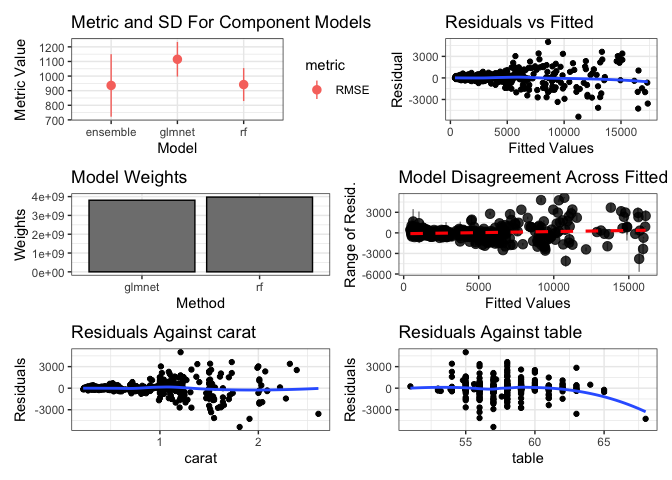
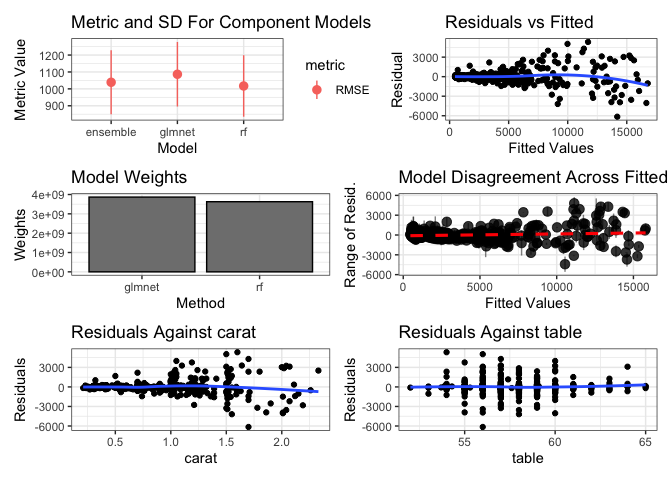
rebuild

diff --git a/README.md b/README.md
@@ -56,21 +56,21 @@ print(greedy_stack)
 #> 
 #> No pre-processing
 #> Resampling: Cross-Validated (5 fold) 
-#> Summary of sample sizes: 399, 401, 400, 400, 400 
+#> Summary of sample sizes: 400, 400, 400, 400, 400 
 #> Resampling results:
 #> 
 #>   RMSE      Rsquared   MAE     
-#>   925.6101  0.9454321  513.4172
+#>   926.6459  0.9467796  558.8281
 #> 
 #> Tuning parameter 'max_iter' was held constant at a value of 100
 #> 
 #> Final model:
 #> Greedy MSE
-#> RMSE:  927.4321 
+#> RMSE:  944.4731 
 #> Weights:
 #>        [,1]
-#> rf     0.76
-#> glmnet 0.24
+#> rf     0.58
+#> glmnet 0.42
 ggplot2::autoplot(greedy_stack, training_data = dat, xvars = c("carat", "table"))
 ```
 
@@ -89,11 +89,11 @@ print(rf_stack)
 #> 
 #> No pre-processing
 #> Resampling: Cross-Validated (5 fold) 
-#> Summary of sample sizes: 399, 400, 401, 400, 400 
+#> Summary of sample sizes: 400, 400, 400, 400, 400 
 #> Resampling results:
 #> 
 #>   RMSE      Rsquared   MAE     
-#>   935.9032  0.9469527  525.7192
+#>   1039.019  0.9269161  558.9834
 #> 
 #> Tuning parameter 'mtry' was held constant at a value of 2
 #> 
@@ -105,8 +105,8 @@ print(rf_stack)
 #>                      Number of trees: 500
 #> No. of variables tried at each split: 2
 #> 
-#>           Mean of squared residuals: 919446.8
-#>                     % Var explained: 94.1
+#>           Mean of squared residuals: 1031204
+#>                     % Var explained: 93.15
 ggplot2::autoplot(rf_stack, training_data = dat, xvars = c("carat", "table"))
 ```
 
